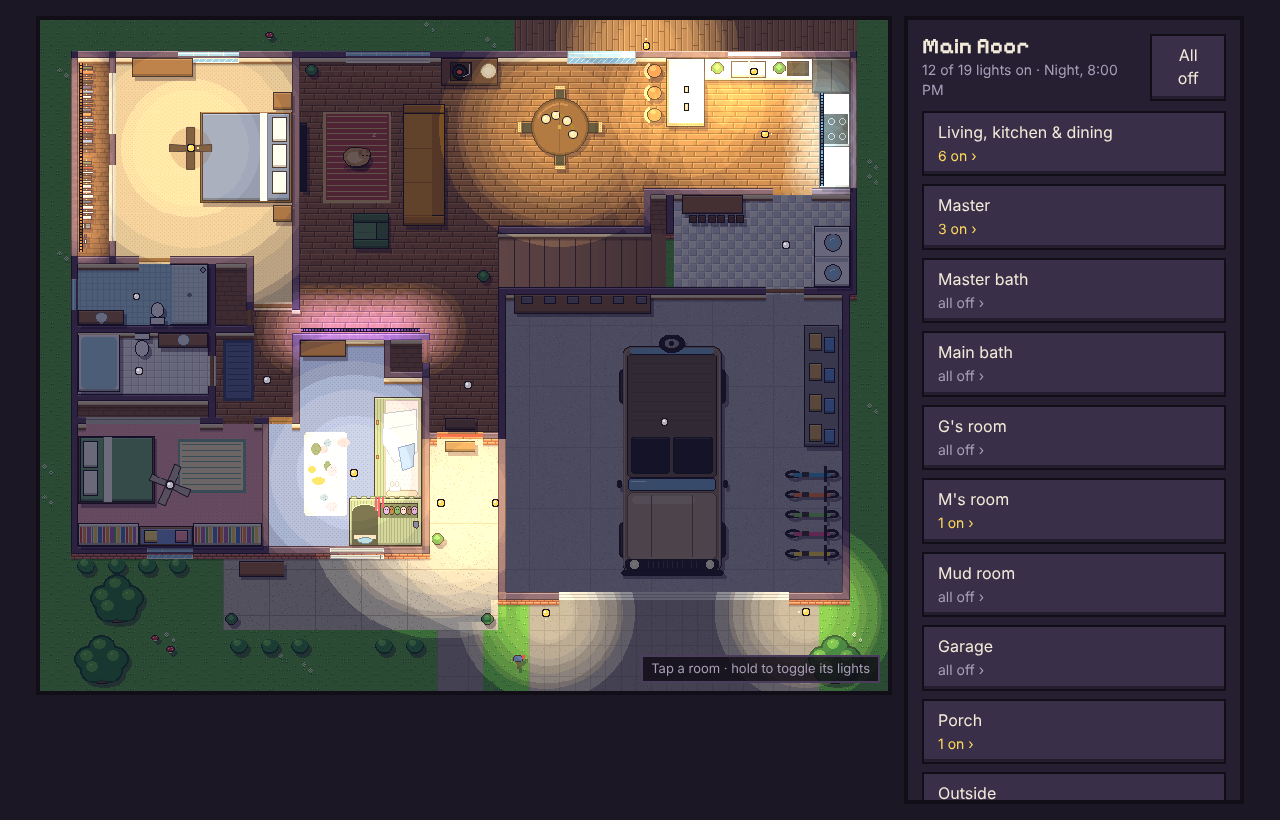
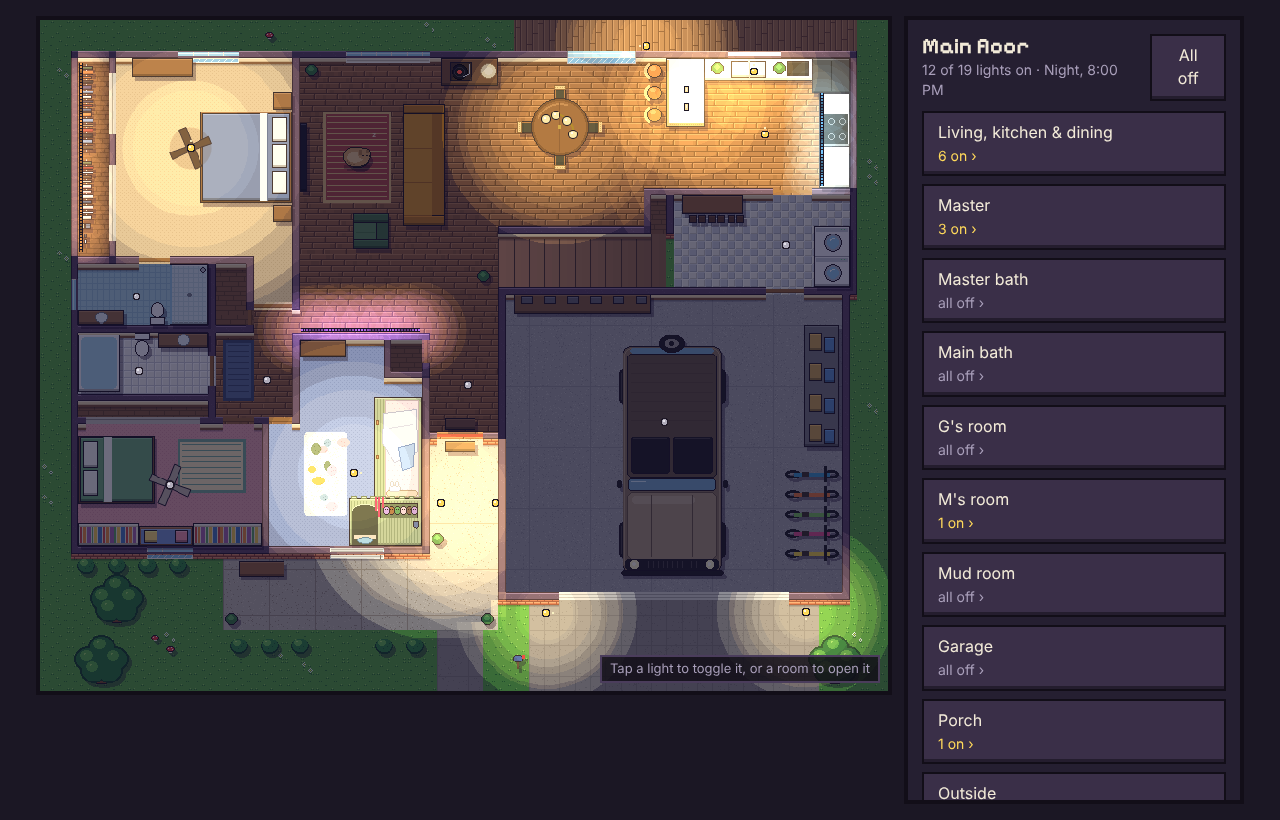
Add snow, and toggle lights straight from the whole-house view
Claude-Session: https://claude.ai/code/session_01XmWiHBpiMTupmjBVMDd8x3

Changed region(s): [[0.4688, 0.7927, 0.6875, 0.8537], [0.125, 0.1524, 0.1875, 0.2134], [0.1875, 0.3354, 0.2188, 0.3659]]

diff --git a/maps/main-floor/preview.html b/maps/main-floor/preview.html
@@ -192,8 +192,8 @@ function ambient(elev) {
   const t = a === b ? 0 : (elev - a[0]) / (b[0] - a[0]);
   let col = a[1].map((v, k) => Math.round(v + (b[1][k] - v) * t)), alpha = a[2] + (b[2] - a[2]) * t;
   if (weather !== 'clear') {                               // overcast: greyer, a bit darker
-    const m = weather === 'storm' ? .6 : .45;
-    col = col.map((v, k) => Math.round(v * (1 - m) + [60, 70, 92][k] * m)); alpha = Math.max(alpha, weather === 'storm' ? .34 : .24);
+    const m = weather === 'storm' ? .6 : .45, grey = weather === 'snow' ? [150, 160, 182] : [60, 70, 92];
+    col = col.map((v, k) => Math.round(v * (1 - m) + grey[k] * m)); alpha = Math.max(alpha, weather === 'storm' ? .34 : weather === 'snow' ? .18 : .24);
   }
   return { col, alpha, night: Math.min(1, alpha / .55) };
 }
@@ -238,6 +238,34 @@ function drawRain(dt) {
     if (flash <= 0 && Math.random() < dt / 9000) flash = 380;
     if (flash > 0) { flash -= dt; ctx.fillStyle = `rgba(230,236,255,${(flash % 190 > 95 ? .35 : .12) * Math.min(1, flash / 120)})`; ctx.fillRect(0, 0, PW, PH); }
   }
+}
+
+// ---- snow: drifting flakes, and a white blanket that builds up on the yard, deck and driveway
+let snowCover = 0;
+const flakes = Array.from({ length: 320 }, () => ({ x: Math.random() * PW, y: Math.random() * PH, v: .018 + Math.random() * .03, ph: Math.random() * 6.3, big: Math.random() < .3 }));
+const snowCv = document.createElement('canvas'); snowCv.width = PW; snowCv.height = PH;
+{ const g = snowCv.getContext('2d');
+  for (let y = 0; y < PH; y += 2) for (let x = 0; x < PW; x += 2) {          // soft drifts in 2px pixels
+    const n = Math.sin(x * .05 + y * .03) + Math.sin(x * .013 - y * .041) + (Math.random() - .5) * .8;
+    g.fillStyle = n > .9 ? '#ffffff' : n < -1.1 ? '#c8d4e6' : '#e8eef8'; g.fillRect(x, y, 2, 2);
+  }
+  g.globalCompositeOperation = 'destination-in'; g.drawImage(outdoorMask, 0, 0); }
+function drawSnowGround(dt) {
+  snowCover = Math.max(0, Math.min(1, snowCover + (weather === 'snow' ? dt / 8000 : -dt / 20000)));
+  if (snowCover <= 0) return;
+  ctx.globalAlpha = .9 * snowCover; ctx.drawImage(snowCv, 0, 0); ctx.globalAlpha = 1;
+}
+function drawSnowfall(dt, now) {
+  rc.globalCompositeOperation = 'source-over'; rc.clearRect(0, 0, PW, PH);
+  rc.fillStyle = 'rgba(255,255,255,.9)';
+  for (const f of flakes) {
+    f.y += f.v * dt; f.x += Math.sin(now / 900 + f.ph) * .015 * dt - .008 * dt;
+    if (f.y > PH) { f.y = -4; f.x = Math.random() * (PW + 60); }
+    if (f.x < -4) f.x = PW + 2;
+    const k = f.big ? 2 : 1; rc.fillRect(Math.round(f.x), Math.round(f.y), k, k);
+  }
+  rc.globalCompositeOperation = 'destination-in'; rc.drawImage(outdoorMask, 0, 0);
+  ctx.drawImage(rainCv, 0, 0);
 }
 
 // ---- the dog: wanders between favourite spots, naps on its bed
@@ -502,7 +530,7 @@ function frame(now) {
     if (f.speed < .002 && !f.on) f.speed = 0;
     f.angle += f.speed * dt / 90;
   }
-  const anyOn = lights.some(l => l.level > 0) || fans.some(f => f.speed > 0) || dogMoving || weather !== 'clear' || garageDoors.some(garageAlert) || (dog && dog.napping);
+  const anyOn = lights.some(l => l.level > 0) || fans.some(f => f.speed > 0) || dogMoving || weather !== 'clear' || snowCover > 0 || garageDoors.some(garageAlert) || (dog && dog.napping);
   // repaint every frame while fading, ~12 fps for idle motion (chunky, retro)
   if (animating || (anyOn && now - lastPaint > 80) || now - lastPaint > 1000) { paint(now, now - lastPaint); lastPaint = now; }
   if (now - lastClock > 30000) { lastClock = now; if (!sel) { const st = side.querySelector('#skyst'); if (st) st.textContent = skyText(); } garageDoors.forEach(g => { if (!g.closed) render(); }); }
@@ -514,6 +542,7 @@ function paint(now, dt = 16) {
   ctx.globalCompositeOperation = 'source-over';
   ctx.drawImage(map, 0, 0);
   for (const cv of garageDoors) drawGarage(cv, now);
+  drawSnowGround(Math.min(100, dt));
   drawDog(now);
   for (const f of fans) drawFan(f);
   const amb = ambient(skyNow().elev);
@@ -552,7 +581,8 @@ function paint(now, dt = 16) {
     else for (const f of l.fx) drawBulb(f, l.level, now);
   }
   for (const cv of covers) if (cv.kind !== 'garage') drawBlinds(cv);
-  if (weather !== 'clear') drawRain(Math.min(100, dt));
+  if (weather === 'snow') drawSnowfall(Math.min(100, dt), now);
+  else if (weather !== 'clear') drawRain(Math.min(100, dt));
   for (const cv of garageDoors) if (garageAlert(cv)) drawGarage({ ...cv, level: 0 }, now);   // alert stays visible over the rain
   if (sel && focusMask) ctx.drawImage(focusMask, 0, 0);
   if (showLabels) drawLabels();
@@ -621,7 +651,7 @@ new ResizeObserver(applyCamera).observe(stage);
 function openRoom(id) {
   sel = id; focusMask = id ? buildFocus(id) : null;
   document.getElementById('crumb').style.display = id ? 'block' : 'none';
-  document.getElementById('hint').textContent = id ? 'Tap outside the room to go back' : 'Tap a room · hold to toggle its lights';
+  document.getElementById('hint').textContent = id ? 'Tap outside the room to go back' : 'Tap a light to toggle it, or a room to open it';
   applyCamera(); render(); paint(performance.now());
   try { history.replaceState(null, '', id ? '#' + id.replace(/_/g, '-') : location.pathname); } catch (e) {}
 }
@@ -633,16 +663,20 @@ function cellOf(ev) {
   return [(ev.clientX - rect.left) / rect.width * W, (ev.clientY - rect.top) / rect.height * H];
 }
 function deviceAt(x, y) {
-  for (const f of fans) {
+  const overview = !sel;
+  if (!overview) for (const f of fans) {               // fan blades vs hub is too fine to aim at on the overview
     if (devRoom(f) !== sel) continue;
     const dd = Math.hypot(f.x - x, f.y - y);
     if (dd > 1.1 && dd < 3.4) return { fan: f };
   }
-  let best = null, bd = 2.6;
-  for (const l of lights) { if (devRoom(l) !== sel) continue; for (const f of l.fx) { const dd = Math.hypot(f.x - x, f.y - y); if (dd < bd) { bd = dd; best = { light: l }; } } }
+  // on the overview a light's tap target is at least ~18 screen px across, so it works on a phone too
+  const cellPx = canvas.getBoundingClientRect().width / W;
+  let best = null, bd = overview ? Math.max(2, 9 / cellPx) : 2.6;
+  for (const l of lights) { if (!overview && devRoom(l) !== sel) continue; for (const f of l.fx) { const dd = Math.hypot(f.x - x, f.y - y); if (dd < bd) { bd = dd; best = { light: l }; } } }
   if (best) return best;
   for (const c of covers) {
-    if (devRoom(c) !== sel) continue;
+    if (overview && c.kind === 'garage') continue;      // never open the garage from a stray overview tap
+    if (!overview && devRoom(c) !== sel) continue;
     if (x >= c.c0 - 1 && x <= c.c1 + 2 && Math.abs(y - (c.row + .5)) < (c.kind === 'garage' ? 3.5 : 2.2)) return { cover: c };
   }
   return null;
@@ -667,9 +701,14 @@ canvas.addEventListener('pointerup', ev => {
   clearTimeout(press.timer);
   if (press.long) { press = null; return; }
   const [x, y] = cellOf(ev); press = null;
-  if (!sel) { const id = roomAt(x, y); if (id) openRoom(id); return; }
   const d = deviceAt(x, y);
-  if (d) { if (d.light) d.light.on = !d.light.on; if (d.fan) d.fan.on = !d.fan.on; if (d.cover) setCover(d.cover, !d.cover.closed); render(); return; }
+  if (d) {
+    if (d.light) d.light.on = !d.light.on; if (d.fan) d.fan.on = !d.fan.on; if (d.cover) setCover(d.cover, !d.cover.closed);
+    render();
+    if (!sel) { const it = d.light || d.cover; toast(`${it.name}: ${d.light ? (it.on ? 'on' : 'off') : it.closed ? 'closed' : 'open'}`); }
+    return;
+  }
+  if (!sel) { const id = roomAt(x, y); if (id) openRoom(id); return; }
   const id = roomAt(x, y);
   openRoom(id && id !== sel ? id : null);
 });
@@ -707,14 +746,14 @@ function housePanel() {
     <div class="list rooms">${rows}</div>
     <div class="row2"><label>Time <input id="clock" type="range" min="0" max="24" step="0.25" value="${clockMode === 'live' ? nowHour() : clockHour}"></label>
     <button id="live" aria-pressed="${clockMode === 'live'}">Live</button></div>
-    <div class="row2"><div class="seg">${['clear', 'rain', 'storm'].map(w => `<button aria-pressed="${weather === w}" data-weather="${w}">${w[0].toUpperCase() + w.slice(1)}</button>`).join('')}</div>
+    <div class="row2"><div class="seg">${['clear', 'rain', 'storm', 'snow'].map(w => `<button aria-pressed="${weather === w}" data-weather="${w}">${w[0].toUpperCase() + w.slice(1)}</button>`).join('')}</div>
     <label><input id="labels" type="checkbox" ${showLabels ? 'checked' : ''}> Labels</label></div>
-    <div class="note">Preview with sample state. In Home Assistant each control reads and sets the real device, the light follows sun.sun and rain follows your weather entity.</div>`;
+    <div class="note">Preview with sample state. In Home Assistant each control reads and sets the real device, the light follows sun.sun and rain and snow follow your weather entity.</div>`;
 }
 const nowHour = () => { const d = new Date(); return Math.round((d.getHours() + d.getMinutes() / 60) * 4) / 4; };
 function skyText() {
   const { date, elev } = skyNow();
-  return `${skyLabel(elev)}, ${date.toLocaleTimeString([], { hour: 'numeric', minute: '2-digit' })}${weather === 'clear' ? '' : weather === 'rain' ? ', raining' : ', storming'}`;
+  return `${skyLabel(elev)}, ${date.toLocaleTimeString([], { hour: 'numeric', minute: '2-digit' })}${weather === 'clear' ? '' : ({ rain: ', raining', storm: ', storming', snow: ', snowing' })[weather]}`;
 }
 function roomPanel(id) {
   const r = ROOMS.find(x => x.id === id), d = inRoom(id), k = countOn(id);
@@ -768,7 +807,7 @@ function bindPanel() {
 const SAMPLE = ['dining', 'kitchen', 'kitchen_counter', 'upper_cabinet', 'hall_accent', 'm_bedroom', 'porch', 'garage_front', 'master_fan_light', 'back_door', 'master_closet', 'kitchen_sink'];
 const tag = location.hash.slice(1), qs = new URLSearchParams(location.search);
 if (qs.has('t')) { clockMode = 'set'; clockHour = +qs.get('t'); }
-if (qs.has('weather')) weather = qs.get('weather');
+if (qs.has('weather')) { weather = qs.get('weather'); if (weather === 'snow') snowCover = 1; }
 if (qs.has('garage')) garageDoors.forEach(g => { g.closed = false; g.level = 1; g.openSince = Date.now() - +qs.get('garage') * 60000; });
 if (qs.has('dog') && dog) { const [x, y] = qs.get('dog').split(',').map(Number); Object.assign(dog, { x, y, napping: false, wait: 0 }); }
 if (tag === 'all-on') lights.forEach(l => { l.on = true; l.level = 1; });

diff --git a/maps/main-floor/preview.src.html b/maps/main-floor/preview.src.html
@@ -192,8 +192,8 @@ function ambient(elev) {
   const t = a === b ? 0 : (elev - a[0]) / (b[0] - a[0]);
   let col = a[1].map((v, k) => Math.round(v + (b[1][k] - v) * t)), alpha = a[2] + (b[2] - a[2]) * t;
   if (weather !== 'clear') {                               // overcast: greyer, a bit darker
-    const m = weather === 'storm' ? .6 : .45;
-    col = col.map((v, k) => Math.round(v * (1 - m) + [60, 70, 92][k] * m)); alpha = Math.max(alpha, weather === 'storm' ? .34 : .24);
+    const m = weather === 'storm' ? .6 : .45, grey = weather === 'snow' ? [150, 160, 182] : [60, 70, 92];
+    col = col.map((v, k) => Math.round(v * (1 - m) + grey[k] * m)); alpha = Math.max(alpha, weather === 'storm' ? .34 : weather === 'snow' ? .18 : .24);
   }
   return { col, alpha, night: Math.min(1, alpha / .55) };
 }
@@ -238,6 +238,34 @@ function drawRain(dt) {
     if (flash <= 0 && Math.random() < dt / 9000) flash = 380;
     if (flash > 0) { flash -= dt; ctx.fillStyle = `rgba(230,236,255,${(flash % 190 > 95 ? .35 : .12) * Math.min(1, flash / 120)})`; ctx.fillRect(0, 0, PW, PH); }
   }
+}
+
+// ---- snow: drifting flakes, and a white blanket that builds up on the yard, deck and driveway
+let snowCover = 0;
+const flakes = Array.from({ length: 320 }, () => ({ x: Math.random() * PW, y: Math.random() * PH, v: .018 + Math.random() * .03, ph: Math.random() * 6.3, big: Math.random() < .3 }));
+const snowCv = document.createElement('canvas'); snowCv.width = PW; snowCv.height = PH;
+{ const g = snowCv.getContext('2d');
+  for (let y = 0; y < PH; y += 2) for (let x = 0; x < PW; x += 2) {          // soft drifts in 2px pixels
+    const n = Math.sin(x * .05 + y * .03) + Math.sin(x * .013 - y * .041) + (Math.random() - .5) * .8;
+    g.fillStyle = n > .9 ? '#ffffff' : n < -1.1 ? '#c8d4e6' : '#e8eef8'; g.fillRect(x, y, 2, 2);
+  }
+  g.globalCompositeOperation = 'destination-in'; g.drawImage(outdoorMask, 0, 0); }
+function drawSnowGround(dt) {
+  snowCover = Math.max(0, Math.min(1, snowCover + (weather === 'snow' ? dt / 8000 : -dt / 20000)));
+  if (snowCover <= 0) return;
+  ctx.globalAlpha = .9 * snowCover; ctx.drawImage(snowCv, 0, 0); ctx.globalAlpha = 1;
+}
+function drawSnowfall(dt, now) {
+  rc.globalCompositeOperation = 'source-over'; rc.clearRect(0, 0, PW, PH);
+  rc.fillStyle = 'rgba(255,255,255,.9)';
+  for (const f of flakes) {
+    f.y += f.v * dt; f.x += Math.sin(now / 900 + f.ph) * .015 * dt - .008 * dt;
+    if (f.y > PH) { f.y = -4; f.x = Math.random() * (PW + 60); }
+    if (f.x < -4) f.x = PW + 2;
+    const k = f.big ? 2 : 1; rc.fillRect(Math.round(f.x), Math.round(f.y), k, k);
+  }
+  rc.globalCompositeOperation = 'destination-in'; rc.drawImage(outdoorMask, 0, 0);
+  ctx.drawImage(rainCv, 0, 0);
 }
 
 // ---- the dog: wanders between favourite spots, naps on its bed
@@ -502,7 +530,7 @@ function frame(now) {
     if (f.speed < .002 && !f.on) f.speed = 0;
     f.angle += f.speed * dt / 90;
   }
-  const anyOn = lights.some(l => l.level > 0) || fans.some(f => f.speed > 0) || dogMoving || weather !== 'clear' || garageDoors.some(garageAlert) || (dog && dog.napping);
+  const anyOn = lights.some(l => l.level > 0) || fans.some(f => f.speed > 0) || dogMoving || weather !== 'clear' || snowCover > 0 || garageDoors.some(garageAlert) || (dog && dog.napping);
   // repaint every frame while fading, ~12 fps for idle motion (chunky, retro)
   if (animating || (anyOn && now - lastPaint > 80) || now - lastPaint > 1000) { paint(now, now - lastPaint); lastPaint = now; }
   if (now - lastClock > 30000) { lastClock = now; if (!sel) { const st = side.querySelector('#skyst'); if (st) st.textContent = skyText(); } garageDoors.forEach(g => { if (!g.closed) render(); }); }
@@ -514,6 +542,7 @@ function paint(now, dt = 16) {
   ctx.globalCompositeOperation = 'source-over';
   ctx.drawImage(map, 0, 0);
   for (const cv of garageDoors) drawGarage(cv, now);
+  drawSnowGround(Math.min(100, dt));
   drawDog(now);
   for (const f of fans) drawFan(f);
   const amb = ambient(skyNow().elev);
@@ -552,7 +581,8 @@ function paint(now, dt = 16) {
     else for (const f of l.fx) drawBulb(f, l.level, now);
   }
   for (const cv of covers) if (cv.kind !== 'garage') drawBlinds(cv);
-  if (weather !== 'clear') drawRain(Math.min(100, dt));
+  if (weather === 'snow') drawSnowfall(Math.min(100, dt), now);
+  else if (weather !== 'clear') drawRain(Math.min(100, dt));
   for (const cv of garageDoors) if (garageAlert(cv)) drawGarage({ ...cv, level: 0 }, now);   // alert stays visible over the rain
   if (sel && focusMask) ctx.drawImage(focusMask, 0, 0);
   if (showLabels) drawLabels();
@@ -621,7 +651,7 @@ new ResizeObserver(applyCamera).observe(stage);
 function openRoom(id) {
   sel = id; focusMask = id ? buildFocus(id) : null;
   document.getElementById('crumb').style.display = id ? 'block' : 'none';
-  document.getElementById('hint').textContent = id ? 'Tap outside the room to go back' : 'Tap a room · hold to toggle its lights';
+  document.getElementById('hint').textContent = id ? 'Tap outside the room to go back' : 'Tap a light to toggle it, or a room to open it';
   applyCamera(); render(); paint(performance.now());
   try { history.replaceState(null, '', id ? '#' + id.replace(/_/g, '-') : location.pathname); } catch (e) {}
 }
@@ -633,16 +663,20 @@ function cellOf(ev) {
   return [(ev.clientX - rect.left) / rect.width * W, (ev.clientY - rect.top) / rect.height * H];
 }
 function deviceAt(x, y) {
-  for (const f of fans) {
+  const overview = !sel;
+  if (!overview) for (const f of fans) {               // fan blades vs hub is too fine to aim at on the overview
     if (devRoom(f) !== sel) continue;
     const dd = Math.hypot(f.x - x, f.y - y);
     if (dd > 1.1 && dd < 3.4) return { fan: f };
   }
-  let best = null, bd = 2.6;
-  for (const l of lights) { if (devRoom(l) !== sel) continue; for (const f of l.fx) { const dd = Math.hypot(f.x - x, f.y - y); if (dd < bd) { bd = dd; best = { light: l }; } } }
+  // on the overview a light's tap target is at least ~18 screen px across, so it works on a phone too
+  const cellPx = canvas.getBoundingClientRect().width / W;
+  let best = null, bd = overview ? Math.max(2, 9 / cellPx) : 2.6;
+  for (const l of lights) { if (!overview && devRoom(l) !== sel) continue; for (const f of l.fx) { const dd = Math.hypot(f.x - x, f.y - y); if (dd < bd) { bd = dd; best = { light: l }; } } }
   if (best) return best;
   for (const c of covers) {
-    if (devRoom(c) !== sel) continue;
+    if (overview && c.kind === 'garage') continue;      // never open the garage from a stray overview tap
+    if (!overview && devRoom(c) !== sel) continue;
     if (x >= c.c0 - 1 && x <= c.c1 + 2 && Math.abs(y - (c.row + .5)) < (c.kind === 'garage' ? 3.5 : 2.2)) return { cover: c };
   }
   return null;
@@ -667,9 +701,14 @@ canvas.addEventListener('pointerup', ev => {
   clearTimeout(press.timer);
   if (press.long) { press = null; return; }
   const [x, y] = cellOf(ev); press = null;
-  if (!sel) { const id = roomAt(x, y); if (id) openRoom(id); return; }
   const d = deviceAt(x, y);
-  if (d) { if (d.light) d.light.on = !d.light.on; if (d.fan) d.fan.on = !d.fan.on; if (d.cover) setCover(d.cover, !d.cover.closed); render(); return; }
+  if (d) {
+    if (d.light) d.light.on = !d.light.on; if (d.fan) d.fan.on = !d.fan.on; if (d.cover) setCover(d.cover, !d.cover.closed);
+    render();
+    if (!sel) { const it = d.light || d.cover; toast(`${it.name}: ${d.light ? (it.on ? 'on' : 'off') : it.closed ? 'closed' : 'open'}`); }
+    return;
+  }
+  if (!sel) { const id = roomAt(x, y); if (id) openRoom(id); return; }
   const id = roomAt(x, y);
   openRoom(id && id !== sel ? id : null);
 });
@@ -707,14 +746,14 @@ function housePanel() {
     <div class="list rooms">${rows}</div>
     <div class="row2"><label>Time <input id="clock" type="range" min="0" max="24" step="0.25" value="${clockMode === 'live' ? nowHour() : clockHour}"></label>
     <button id="live" aria-pressed="${clockMode === 'live'}">Live</button></div>
-    <div class="row2"><div class="seg">${['clear', 'rain', 'storm'].map(w => `<button aria-pressed="${weather === w}" data-weather="${w}">${w[0].toUpperCase() + w.slice(1)}</button>`).join('')}</div>
+    <div class="row2"><div class="seg">${['clear', 'rain', 'storm', 'snow'].map(w => `<button aria-pressed="${weather === w}" data-weather="${w}">${w[0].toUpperCase() + w.slice(1)}</button>`).join('')}</div>
     <label><input id="labels" type="checkbox" ${showLabels ? 'checked' : ''}> Labels</label></div>
-    <div class="note">Preview with sample state. In Home Assistant each control reads and sets the real device, the light follows sun.sun and rain follows your weather entity.</div>`;
+    <div class="note">Preview with sample state. In Home Assistant each control reads and sets the real device, the light follows sun.sun and rain and snow follow your weather entity.</div>`;
 }
 const nowHour = () => { const d = new Date(); return Math.round((d.getHours() + d.getMinutes() / 60) * 4) / 4; };
 function skyText() {
   const { date, elev } = skyNow();
-  return `${skyLabel(elev)}, ${date.toLocaleTimeString([], { hour: 'numeric', minute: '2-digit' })}${weather === 'clear' ? '' : weather === 'rain' ? ', raining' : ', storming'}`;
+  return `${skyLabel(elev)}, ${date.toLocaleTimeString([], { hour: 'numeric', minute: '2-digit' })}${weather === 'clear' ? '' : ({ rain: ', raining', storm: ', storming', snow: ', snowing' })[weather]}`;
 }
 function roomPanel(id) {
   const r = ROOMS.find(x => x.id === id), d = inRoom(id), k = countOn(id);
@@ -768,7 +807,7 @@ function bindPanel() {
 const SAMPLE = ['dining', 'kitchen', 'kitchen_counter', 'upper_cabinet', 'hall_accent', 'm_bedroom', 'porch', 'garage_front', 'master_fan_light', 'back_door', 'master_closet', 'kitchen_sink'];
 const tag = location.hash.slice(1), qs = new URLSearchParams(location.search);
 if (qs.has('t')) { clockMode = 'set'; clockHour = +qs.get('t'); }
-if (qs.has('weather')) weather = qs.get('weather');
+if (qs.has('weather')) { weather = qs.get('weather'); if (weather === 'snow') snowCover = 1; }
 if (qs.has('garage')) garageDoors.forEach(g => { g.closed = false; g.level = 1; g.openSince = Date.now() - +qs.get('garage') * 60000; });
 if (qs.has('dog') && dog) { const [x, y] = qs.get('dog').split(',').map(Number); Object.assign(dog, { x, y, napping: false, wait: 0 }); }
 if (tag === 'all-on') lights.forEach(l => { l.on = true; l.level = 1; });

diff --git a/README.md b/README.md
@@ -25,7 +25,7 @@ python3 build_preview.py  # needs PyYAML
 
 ## Controls
 
-Tap a room to zoom into it. A panel lists everything in that room as big toggles: lights, fans, blinds, and color presets for RGB strips. It sits below the map on a phone and beside it on desktop. You can also tap fixtures directly on the zoomed map. Long-press a room on the overview to toggle all its lights. Rooms are defined under `rooms:` in `lights.yaml`.
+Tap a room to zoom into it. A panel lists everything in that room as big toggles: lights, fans, blinds, and color presets for RGB strips. It sits below the map on a phone and beside it on desktop. You can also tap fixtures directly on the zoomed map. On the overview, tapping a light (or blinds) toggles it right there, and tapping anywhere else in a room opens it. Long-press a room to toggle all its lights. The garage door only opens from inside the garage view, so a stray tap can't open it. Rooms are defined under `rooms:` in `lights.yaml`.
 
 ## How lights render
 
@@ -34,8 +34,8 @@ It fades in and out over about half a second and flickers gently while on.
 
 ## Weather, the dog and the garage door
 
-- **Rain:** when the weather entity under `sky:` in `lights.yaml` is rainy, rain falls on the yard, deck and driveway (never indoors) and the light goes grey. Thunderstorms add lightning flashes.
+- **Rain:** when the weather entity under `sky:` in `lights.yaml` is rainy, rain falls on the yard, deck and driveway (never indoors) and the light goes grey. Thunderstorms add lightning flashes. Snow drifts down and builds up a white blanket outside that melts away slowly after it stops. Weather states map as: `rainy`/`pouring` = rain, `lightning`/`lightning-rainy` = storm, `snowy`/`snowy-rainy` = snow.
 - **Dog:** wanders between the spots under `dog:` in `lights.yaml`, trots along real hallways and doors, and naps on its bed with floating z's.
 - **Garage door:** a cover with `kind: garage`. It rolls open on the map, and once it has been open `alert_after_min` minutes (35) it blinks red with a "!" and a banner appears at the top of the panel. `ha/garage_door_alert.yaml` has the matching Home Assistant automation that sends a phone alert with a "Close it" button.
 
-The preview's Time slider, Live button and Clear/Rain/Storm buttons fake the sun and weather. URL options: `?t=20.5` (time), `?weather=rain|storm`, `?garage=40` (open 40 minutes).
+The preview's Time slider, Live button and Clear/Rain/Storm buttons fake the sun and weather. URL options: `?t=20.5` (time), `?weather=rain|storm|snow`, `?garage=40` (open 40 minutes).
